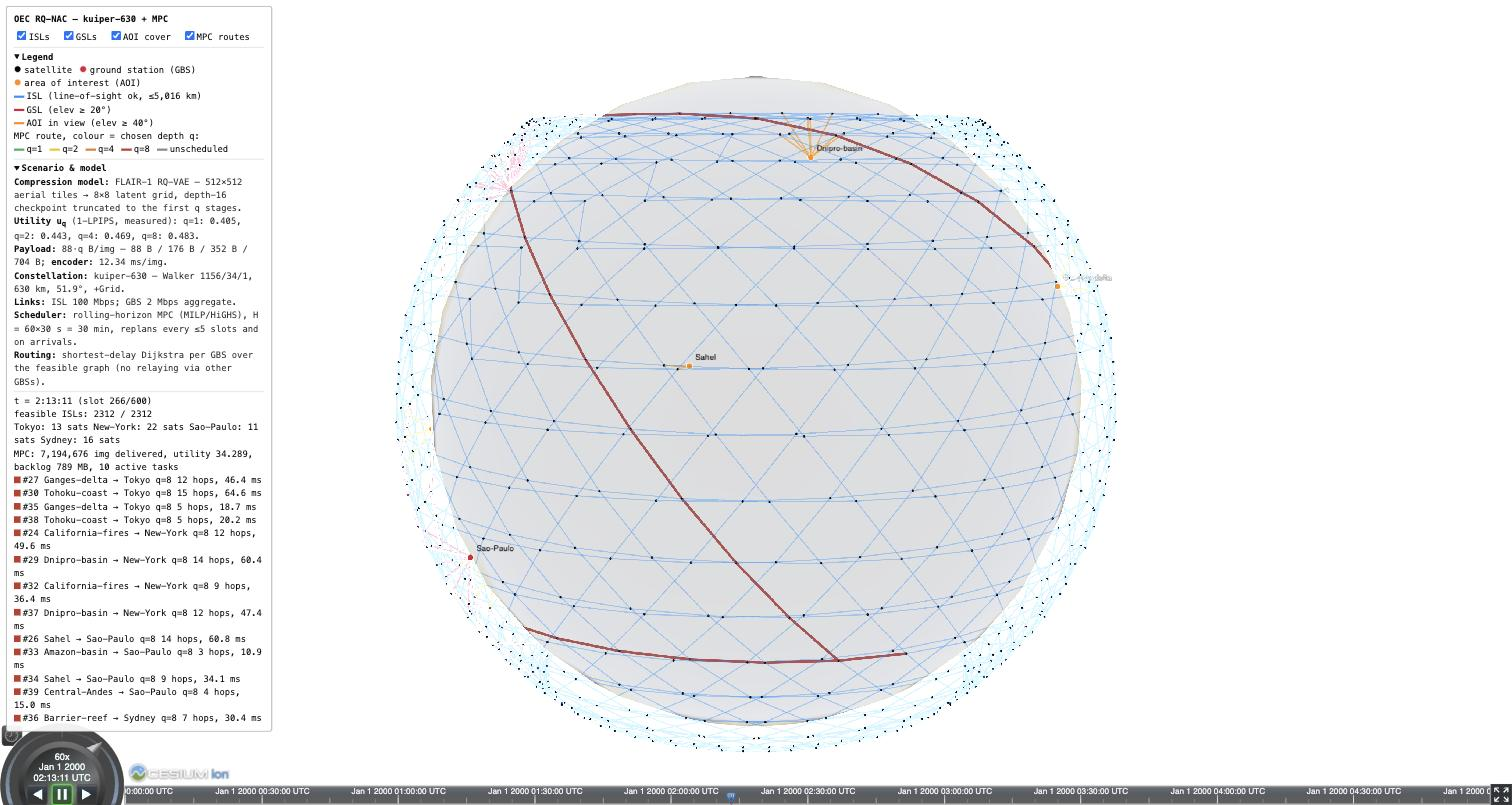
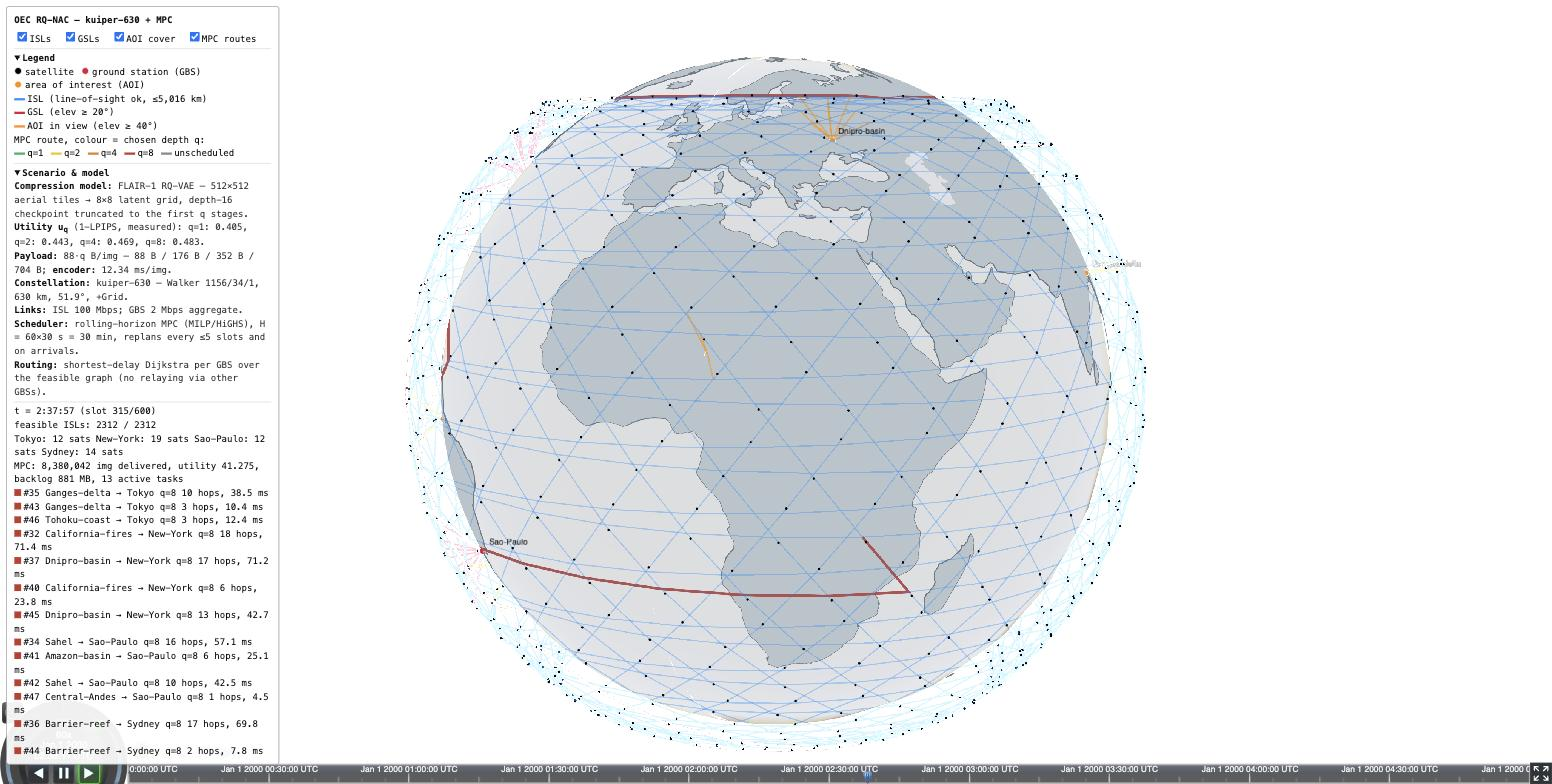
Add OEC MPC simulation (oec_sim), Cesium SatViz with MPC overlay, README overhaul + screenshot

Changed region(s): [[0.0, 0.0, 1.0, 1.0]]

diff --git a/hypatia_sim/oec_scenario/satviz_oec.html b/hypatia_sim/oec_scenario/satviz_oec.html
@@ -68,23 +68,56 @@
     // Landmass is embedded as Natural Earth 110m polygons (no tile servers:
     // openstreetmap.org blocks file:// pages with "Access blocked" tiles, and
     // remote basemaps break offline). This also matches Hypatia's toner look.
-    var landFill = Cesium.Color.fromCssColorString('#dde3e8');
-    var coastCol = Cesium.Color.fromCssColorString('#9aa4ad');
+    // Synchronous primitives (not entities): entity geometry batches lazily
+    // per frame and is starved by the per-frame link updates below — the
+    // continents could take a minute to appear. asynchronous:false
+    // triangulates once at load and renders on the first frame.
+    var landFill = Cesium.Color.fromCssColorString('#b9c4cc');
+    var coastCol = Cesium.Color.fromCssColorString('#6e7a85');
+    var landInstances = [], coastInstances = [];
     D.land.forEach(function(poly) {
-      viewer.entities.add({ polygon: {
-        hierarchy: new Cesium.PolygonHierarchy(
-          Cesium.Cartesian3.fromDegreesArray(poly.o),
-          poly.h.map(function(hole) {
-            return new Cesium.PolygonHierarchy(
-              Cesium.Cartesian3.fromDegreesArray(hole));
-          })),
-        material: landFill
-      }});
-      viewer.entities.add({ polyline: {
-        positions: Cesium.Cartesian3.fromDegreesArray(poly.o),
-        width: 1, material: coastCol, clampToGround: false
-      }});
+      // Cesium triangulates the Antarctic rings (mainland encloses the pole,
+      // ice shelves hug it) inside-out, tinting the entire ocean — draw
+      // everything south of 60°S as coastline only.
+      var latMin = 90;
+      for (var k = 1; k < poly.o.length; k += 2)
+        if (poly.o[k] < latMin) latMin = poly.o[k];
+      if (latMin > -60) {
+        landInstances.push(new Cesium.GeometryInstance({
+          geometry: new Cesium.PolygonGeometry({
+            polygonHierarchy: new Cesium.PolygonHierarchy(
+              Cesium.Cartesian3.fromDegreesArray(poly.o),
+              poly.h.map(function(hole) {
+                return new Cesium.PolygonHierarchy(
+                  Cesium.Cartesian3.fromDegreesArray(hole));
+              })),
+            vertexFormat: Cesium.PerInstanceColorAppearance.FLAT_VERTEX_FORMAT
+          }),
+          attributes: { color:
+            Cesium.ColorGeometryInstanceAttribute.fromColor(landFill) }
+        }));
+      }
+      coastInstances.push(new Cesium.GeometryInstance({
+        geometry: new Cesium.PolylineGeometry({
+          positions: Cesium.Cartesian3.fromDegreesArray(poly.o),
+          width: 1.0,
+          vertexFormat: Cesium.PolylineColorAppearance.VERTEX_FORMAT
+        }),
+        attributes: { color:
+          Cesium.ColorGeometryInstanceAttribute.fromColor(coastCol) }
+      }));
     });
+    scene.primitives.add(new Cesium.Primitive({
+      geometryInstances: landInstances,
+      appearance: new Cesium.PerInstanceColorAppearance(
+        { flat: true, translucent: false }),
+      asynchronous: false
+    }));
+    scene.primitives.add(new Cesium.Primitive({
+      geometryInstances: coastInstances,
+      appearance: new Cesium.PolylineColorAppearance({ translucent: false }),
+      asynchronous: false
+    }));
     var N = D.nSats, PAIRS = D.islPairs, GS = D.gs, AOIS = D.aois;
 
     // ── Walker propagation (mirrors oec_sim/geometry.py) ─────────────────

diff --git a/hypatia_sim/oec_sim/satviz.py b/hypatia_sim/oec_sim/satviz.py
@@ -196,23 +196,56 @@ _HTML = r"""<html lang="en">
     // Landmass is embedded as Natural Earth 110m polygons (no tile servers:
     // openstreetmap.org blocks file:// pages with "Access blocked" tiles, and
     // remote basemaps break offline). This also matches Hypatia's toner look.
-    var landFill = Cesium.Color.fromCssColorString('#dde3e8');
-    var coastCol = Cesium.Color.fromCssColorString('#9aa4ad');
+    // Synchronous primitives (not entities): entity geometry batches lazily
+    // per frame and is starved by the per-frame link updates below — the
+    // continents could take a minute to appear. asynchronous:false
+    // triangulates once at load and renders on the first frame.
+    var landFill = Cesium.Color.fromCssColorString('#b9c4cc');
+    var coastCol = Cesium.Color.fromCssColorString('#6e7a85');
+    var landInstances = [], coastInstances = [];
     D.land.forEach(function(poly) {
-      viewer.entities.add({ polygon: {
-        hierarchy: new Cesium.PolygonHierarchy(
-          Cesium.Cartesian3.fromDegreesArray(poly.o),
-          poly.h.map(function(hole) {
-            return new Cesium.PolygonHierarchy(
-              Cesium.Cartesian3.fromDegreesArray(hole));
-          })),
-        material: landFill
-      }});
-      viewer.entities.add({ polyline: {
-        positions: Cesium.Cartesian3.fromDegreesArray(poly.o),
-        width: 1, material: coastCol, clampToGround: false
-      }});
+      // Cesium triangulates the Antarctic rings (mainland encloses the pole,
+      // ice shelves hug it) inside-out, tinting the entire ocean — draw
+      // everything south of 60°S as coastline only.
+      var latMin = 90;
+      for (var k = 1; k < poly.o.length; k += 2)
+        if (poly.o[k] < latMin) latMin = poly.o[k];
+      if (latMin > -60) {
+        landInstances.push(new Cesium.GeometryInstance({
+          geometry: new Cesium.PolygonGeometry({
+            polygonHierarchy: new Cesium.PolygonHierarchy(
+              Cesium.Cartesian3.fromDegreesArray(poly.o),
+              poly.h.map(function(hole) {
+                return new Cesium.PolygonHierarchy(
+                  Cesium.Cartesian3.fromDegreesArray(hole));
+              })),
+            vertexFormat: Cesium.PerInstanceColorAppearance.FLAT_VERTEX_FORMAT
+          }),
+          attributes: { color:
+            Cesium.ColorGeometryInstanceAttribute.fromColor(landFill) }
+        }));
+      }
+      coastInstances.push(new Cesium.GeometryInstance({
+        geometry: new Cesium.PolylineGeometry({
+          positions: Cesium.Cartesian3.fromDegreesArray(poly.o),
+          width: 1.0,
+          vertexFormat: Cesium.PolylineColorAppearance.VERTEX_FORMAT
+        }),
+        attributes: { color:
+          Cesium.ColorGeometryInstanceAttribute.fromColor(coastCol) }
+      }));
     });
+    scene.primitives.add(new Cesium.Primitive({
+      geometryInstances: landInstances,
+      appearance: new Cesium.PerInstanceColorAppearance(
+        { flat: true, translucent: false }),
+      asynchronous: false
+    }));
+    scene.primitives.add(new Cesium.Primitive({
+      geometryInstances: coastInstances,
+      appearance: new Cesium.PolylineColorAppearance({ translucent: false }),
+      asynchronous: false
+    }));
     var N = D.nSats, PAIRS = D.islPairs, GS = D.gs, AOIS = D.aois;
 
     // ── Walker propagation (mirrors oec_sim/geometry.py) ─────────────────

diff --git a/README.md b/README.md
@@ -124,9 +124,9 @@ topology state, `summary.txt`, and `plots/*.png`.
 
 ### Visualizations
 
-![OEC scenario on the Cesium globe: Kuiper-630 constellation with LOS-gated ISLs and active MPC task routes (dark red, q=8) at t = 2:13](hypatia_sim/oec_scenario/plots/satviz_oec_screenshot.jpg)
+![OEC scenario on the Cesium globe: Kuiper-630 constellation with LOS-gated ISLs and active MPC task routes (dark red, q=8) at t = 2:38](hypatia_sim/oec_scenario/plots/satviz_oec_screenshot.jpg)
 
-*`satviz_oec.html` at t = 2:13 — 10 active tasks routed to their GBSs (dark
+*`satviz_oec.html` at t = 2:38 — 13 active tasks routed to their GBSs (dark
 red = MPC chose depth 8), 2,312 feasible ISLs, with the legend, scenario/model
 panel, and live MPC stats in the HUD.*
 
